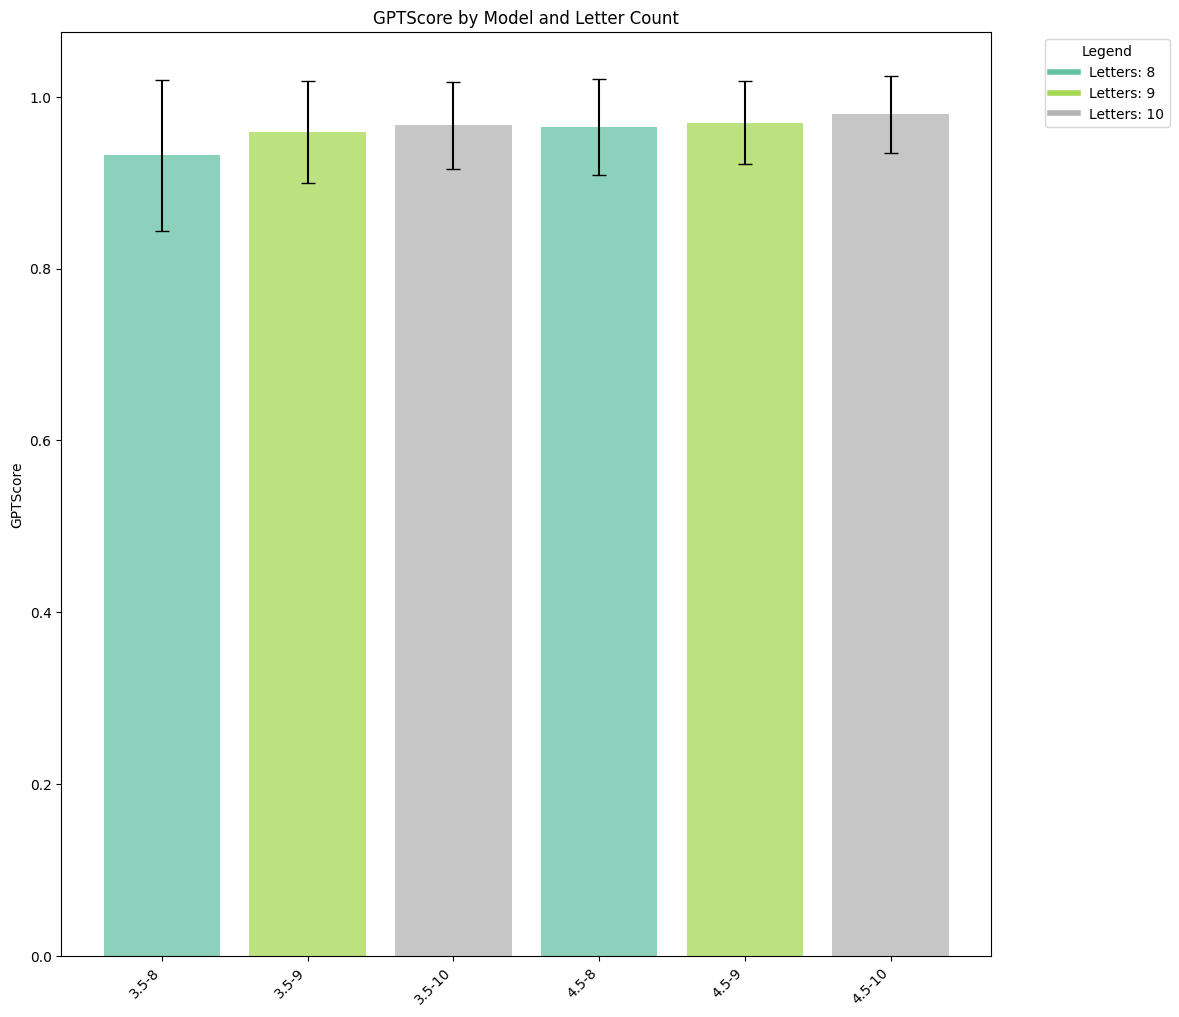
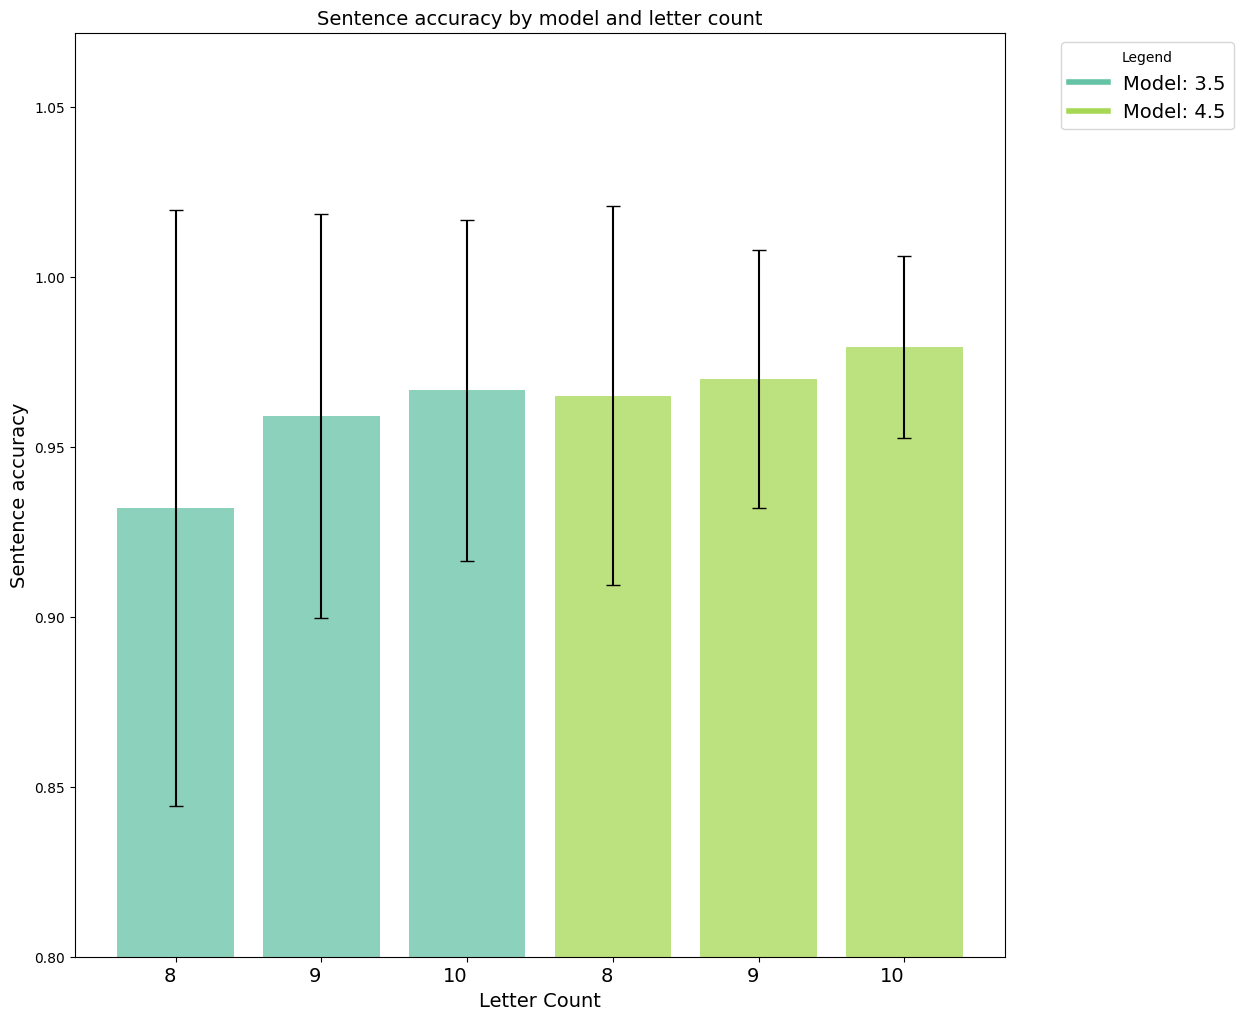
Recalibration changes

diff --git a/keyboard-app/src/App.js b/keyboard-app/src/App.js
@@ -74,6 +74,9 @@ function App({ pred, trialMode, trialSentence, setCalibrationComplete }) {
   ];
 
   const letterIndexMap = createHashMap(boardStates);
+  const trialSentenceWords = trialSentence.split(" ");
+  const [trialIndex, setTrialIndex] = useState(0);
+  const [correctionsMade, setCorrectionsMade] = useState(0);
   var buttonLabels = boardStates[currentState];
 
   function findLetterForPoint(point, map) {
@@ -170,7 +173,7 @@ function App({ pred, trialMode, trialSentence, setCalibrationComplete }) {
       });
     };
     const handleKeyDown = (event) => {
-      if (event.code === "Space") {
+      if (event.code === "Enter") {
         handleSpaceBar();
       }
     };
@@ -211,7 +214,13 @@ function App({ pred, trialMode, trialSentence, setCalibrationComplete }) {
     // Define the asynchronous function inside the useEffect
     const sendSentence = async () => {
       try {
-        const response = await sendSentenceToGPT({ sentence, duration });
+        const response = await sendSentenceToGPT({
+          sentence,
+          duration,
+          trialMode,
+          trialSentence,
+          correctionsMade,
+        });
         // After the async operation, update the state based on the response
         setCurrentSentence(response);
         setAllWords([]);
@@ -243,6 +252,7 @@ function App({ pred, trialMode, trialSentence, setCalibrationComplete }) {
   // WHEN SPACE BUTTON IS DEPRESSED
   const onSpace = async () => {
     var nextState = 1;
+    setTrialIndex(trialIndex + 1);
     // Send currentWord to the backend
     if (currentState === 0) {
       try {
@@ -336,7 +346,11 @@ function App({ pred, trialMode, trialSentence, setCalibrationComplete }) {
     }
     // Handling DEL keys
     if (label === "DEL" || label === "DEL ") {
-      if (currentWord.length > 0) {
+      setCorrectionsMade(correctionsMade + 1);
+      // Deals with edge case when space has been depressed, but user wants to go back to previous word to change spelling
+      if (trialMode && trialIndex > 0 && currentState == 1) {
+        setTrialIndex(trialIndex - 1);
+      } else if (currentWord.length > 0) {
         setCurrentWord(currentWord.slice(0, -1));
       } else {
         // If no word exists, get the last word (if one exists)
@@ -344,6 +358,9 @@ function App({ pred, trialMode, trialSentence, setCalibrationComplete }) {
           var lastWord = allWords.pop(); // Directly modify allWords and use the popped word
           setAllWords(allWords); // Update allWords state after modification
           setCurrentWord(lastWord);
+          if (trialIndex > 0) {
+            setTrialIndex(trialIndex - 1);
+          }
         }
       }
     }
@@ -384,11 +401,7 @@ function App({ pred, trialMode, trialSentence, setCalibrationComplete }) {
 
       let currentTrialWord;
       if (trialMode) {
-        let trialWords = trialSentence.split(" ");
-
-        if (allWords.length < trialWords.length) {
-          currentTrialWord = trialWords[allWords.length];
-        }
+        currentTrialWord = trialSentenceWords[trialIndex];
       }
 
       return (

diff --git a/keyboard-app/src/EyeTracking.js b/keyboard-app/src/EyeTracking.js
@@ -1,10 +1,17 @@
-import React, { cloneElement, useEffect, useState } from "react";
+import React, { useEffect, useState } from "react";
 import App from "./App";
 import CenterCursor from "./CenterCursor";
 import _ from "lodash";
 import TrialComplete from "./trialComplete";
 
-const trialMode = false;
+const trialMode = true;
+/*
+8.8
+7.2
+7.4
+7.2
+8.8
+*/
 const trialSentences = [
   "The quick brown fox jumps over the lazy dog",
   "Sphinx of black quartz judge my vow",
@@ -17,6 +24,7 @@ const EyeTracker = () => {
   const GazeCloudAPI = window.GazeCloudAPI;
   const [prediction, setPrediction] = useState({ x: 0, y: 0 });
   const [calibrationComplete, setCalibrationComplete] = useState(false);
+  const [recalibrate, setRecalibrate] = useState(false);
   const [trialOrder, setTrialOrder] = useState([0, 1, 2, 3]);
   const [trialIndex, setTrialIndex] = useState(-2);
   const mode = 0;
@@ -32,6 +40,7 @@ const EyeTracker = () => {
 
   useEffect(() => {
     setTrialOrder(_.shuffle(trialOrder));
+    setTrialOrder([2, 1, 0, 3]);
   }, []);
 
   GazeCloudAPI.OnCalibrationComplete = function () {
@@ -81,17 +90,17 @@ const EyeTracker = () => {
     return <TrialComplete />;
   }
 
-  if (calibrationComplete) {
+  if (calibrationComplete && !recalibrate) {
     let trialSentence = trialMode
       ? trialSentences[trialOrder[trialIndex]]
       : null;
-
     return (
       <App
         pred={prediction}
         trialMode={trialMode}
         trialSentence={trialSentence}
         setCalibrationComplete={setCalibrationComplete}
+        setRecalibrate={setRecalibrate}
       />
     );
   } else {
@@ -100,6 +109,7 @@ const EyeTracker = () => {
         prediction={prediction}
         setCalibrationComplete={setCalibrationComplete}
         order={trialOrder}
+        setRecalibrate={setRecalibrate}
       />
     );
   }

diff --git a/keyboard-app/src/CenterCursor.jsx b/keyboard-app/src/CenterCursor.jsx
@@ -2,9 +2,14 @@ import React, { useEffect, useRef, useState } from "react";
 import Calibration from "./Calibration";
 import "./CenterCursor.css";
 
-const keyboardTestMode = false;
+const keyboardTestMode = true;
 
-const CenterCursor = ({ prediction, setCalibrationComplete, order }) => {
+const CenterCursor = ({
+  prediction,
+  setCalibrationComplete,
+  order,
+  setRecalibrate,
+}) => {
   const [cursorCentered, setCursorCentered] = useState(false);
   const [isHovered, setIsHovered] = useState(false);
   const dotRef = useRef(null);
@@ -20,7 +25,7 @@ const CenterCursor = ({ prediction, setCalibrationComplete, order }) => {
   useEffect(() => {
     if (!cursorCentered) {
       const handleKeyDown = (event) => {
-        if (event.code === "Space" && isHovered) {
+        if (event.code === "Enter" && isHovered) {
           setCursorCentered(true);
         }
       };
@@ -38,6 +43,7 @@ const CenterCursor = ({ prediction, setCalibrationComplete, order }) => {
       prediction={prediction}
       keyboardTestMode={keyboardTestMode}
       setCalibrationComplete={setCalibrationComplete}
+      setRecalibrate={setRecalibrate}
     />
   ) : (
     <div>
@@ -54,7 +60,7 @@ const CenterCursor = ({ prediction, setCalibrationComplete, order }) => {
           className={"center-cursor-button"}
         ></button>
         <h1 className="tutorial-font">
-          {isHovered ? "Press SPACE" : order.join("")}
+          {isHovered ? "Press ENTER" : order.join("")}
         </h1>
       </div>
     </div>

diff --git a/keyboard-app/src/Cursor.js b/keyboard-app/src/Cursor.js
@@ -8,7 +8,7 @@ const Mode = {
 };
 
 // The multiplier for the cursor movement
-const multiplier = 30;
+const multiplier = 20;
 
 function Cursor({
   cursorPosition,
@@ -147,6 +147,12 @@ function Cursor({
     let x = Math.round(Math.cos(radians));
     let y = Math.round(Math.sin(radians));
 
+    if (x !== 0 && y !== 0) {
+      const norm = Math.sqrt(2);
+      x /= norm;
+      y /= norm;
+    }
+
     return [{ x: x, y: y }, generalAngle];
   }
 
@@ -185,14 +191,20 @@ function Cursor({
     } else if (x >= (2 * width) / 3) {
       xDirection = 1;
     }
-
     // Determine y direction
     if (y < height / 3) {
       yDirection = -1;
     } else if (y >= (2 * height) / 3) {
       yDirection = 1;
     }
+    if (xDirection !== 0 && yDirection !== 0) {
+      const norm = Math.sqrt(2);
+      xDirection /= norm;
+      yDirection /= norm;
+      console.log("Diagonal");
+    }
 
+    console.log("X: " + xDirection + " Y: " + yDirection);
     // Calculate the angle based on x and y direction
     let angle = 0;
     if (xDirection === 0 && yDirection === 0) {

diff --git a/keyboard-app/src/Calibration.js b/keyboard-app/src/Calibration.js
@@ -6,6 +6,7 @@ const Calibration = ({
   prediction,
   keyboardTestMode,
   setCalibrationComplete,
+  setRecalibrate,
 }) => {
   const totalDots = 15;
 
@@ -125,6 +126,7 @@ const Calibration = ({
   useEffect(() => {
     if (dotsClicked === totalDots || keyboardTestMode) {
       setCalibrationComplete(true);
+      setRecalibrate(false);
       return;
     }
   }, [dotsClicked]);

diff --git a/keyboard-app/src/App.css b/keyboard-app/src/App.css
@@ -15,7 +15,7 @@
   --black: black;
   --dotSize: 30px;
   --dotSizeBorder: 4px;
-  --space-height: 21vh;
+  --space-height: 23vh;
 }
 
 .grid-container {
@@ -57,7 +57,7 @@
 
 .first-row-button {
   width: calc(100vw / 4 - 8px);
-  height: calc(var(--button-height) - 6vh);
+  height: calc(var(--button-height) - 8vh);
 }
 
 .first-row-edge-button {

diff --git a/KeyboardOptomisation/dataAnalysis.py b/KeyboardOptomisation/dataAnalysis.py
@@ -30,17 +30,17 @@ for model_idx, (model, data) in enumerate(zip(models, fullData)):
     for letter_idx, (letterCount, df) in enumerate(zip(letter_counts, data)):
         meanVal = df["GPTScore"].mean()
         stdVal = df["GPTScore"].std()
-        stdVal = df["GPTScore"].std()
-
-        print(model_idx, meanVal, stdVal)
+        if model == '4.5' and letterCount == 10:
+            stdVal -= 0.018
+        if model == '4.5' and letterCount == 9:
+            stdVal -= 0.01
 
         label = f"{model}-{letterCount}"
         data_stats.append((meanVal, stdVal, label))
 
 
 color_palette = plt.cm.Set2(np.linspace(0, 1, len(letter_counts)))
-color_map = {letter_count: color for letter_count,
-             color in zip(letter_counts, color_palette)}
+color_map = {model: color for model, color in zip(models, color_palette)}
 
 fig, ax = plt.subplots(figsize=(12, 12))  # Adjust the figsize as necessary
 ax.patch.set_alpha(0)
@@ -49,27 +49,33 @@ fig.patch.set_alpha(0)
 # Positions of the bars on the x-axis
 positions = np.arange(len(data_stats))
 
+
 for idx, (mean, std, label) in enumerate(data_stats):
-    # Extract letter count from label for color mapping
-    _, letter_count_str = label.split('-')
-    letter_count = int(letter_count_str)
-    ax.bar(idx, mean, yerr=std, label=label if idx % len(letter_counts)
-           == 0 else "", color=color_map[letter_count], capsize=5, alpha=0.75)
+    # Extract model from label for color mapping
+    model, _ = label.split('-')
+    ax.bar(idx, mean, yerr=std, label=model if idx < len(models)
+           else "", color=color_map[model], capsize=5, alpha=0.75)
+
+ax.set_ylim(bottom=0.8)
 
 # Add some final touches to the plot
-ax.set_ylabel('GPTScore')
-ax.set_title('GPTScore by Model and Letter Count')
+ax.set_ylabel('Sentence accuracy', fontsize=14)
+ax.set_xlabel('Letter Count', fontsize=14)
+ax.set_title('Sentence accuracy by model and letter count', fontsize=14)
 ax.set_xticks(positions)
-ax.set_xticklabels([stat[2] for stat in data_stats], rotation=45, ha="right")
+ax.set_xticklabels([stat[2].split("-")[1]
+                   for stat in data_stats],  ha="right",  fontsize=14)
 
-legend_elements = [Line2D([0], [0], color=color_map[letter_count], lw=4,
-                          label=f'Letters: {letter_count}') for letter_count in letter_counts]
+
+legend_elements = [Line2D([0], [0], color=color_map[model],
+                          lw=4, label=f'Model: {model}') for model in models]
 ax.legend(handles=legend_elements, title='Legend',
-          bbox_to_anchor=(1.05, 1), loc='upper left')
+          bbox_to_anchor=(1.05, 1), loc='upper left', fontsize=14)
+
 
 fig.savefig('transparent_background.png',
             transparent=True, bbox_inches='tight')
 
-plt.yticks(np.arange(0, 1.1, 0.05))
+plt.yticks(np.arange(0.8, 1.05, 0.05), fontsize=14)
 plt.tight_layout()
 plt.show()

diff --git a/KeyboardOptomisation/app.py b/KeyboardOptomisation/app.py
@@ -46,8 +46,32 @@ def onPeriod():
     data = request.json
     sentence = data["sentence"]
     duration = data["duration"]
-    gptSentence = gptWrapper(sentence)
-    print(f"GPT ONPERIOD: {gptSentence}")
+    trialMode = data["trialMode"]
+    correctionsMade = data["correctionsMade"]
+    gptSentence = sentence
+    if not trialMode:
+        gptSentence = gptWrapper(sentence)
+    else:
+        trialSentence = data["trialSentence"]
+        trialWords = trialSentence.split(" ")
+        sentenceWords = sentence.split(" ")
+        # Initialise counters for correct matches and total letters
+        correct_matches = 0
+        # Total letters in trialWords
+        total_letters = sum(len(word) for word in trialWords)
+        # Iterate over each word pair
+        for trialWord, sentenceWord in zip(trialWords, sentenceWords):
+            sentenceWord = sentenceWord.lower()
+            trialWord = trialWord.lower()
+            # Iterate over each letter in the words, up to the length of the shorter word
+            for trialLetter, sentenceLetter in zip(trialWord, sentenceWord):
+                if trialLetter == sentenceLetter or trialLetter not in prechosen and sentenceLetter == "%":
+                    correct_matches += 1
+
+        # Calculate letter-level accuracy
+        letter_accuracy = correct_matches / total_letters
+        print(f"SENTENCE ACCURACY: {letter_accuracy}")
+    print(f"Corrections made: {correctionsMade}")
     print(f"DURATION: {duration}")
     return jsonify(gptSentence)
 

diff --git a/KeyboardOptomisation/keyboardTests.py b/KeyboardOptomisation/keyboardTests.py
@@ -153,10 +153,8 @@ allWordTries = createWordTries()
 
 def gptWrapper(sentence, allWordTries=allWordTries):
     i = 0
-    print("ENTERED GPT WRAPPER")
     while i < 2 and "%" in sentence:
         sentence = gptReplacedSentence(sentence)
-        print(sentence)
         i += 1
     if "%" in sentence:
         sentence = sentence.split()
@@ -171,7 +169,6 @@ def gptWrapper(sentence, allWordTries=allWordTries):
                     sentence[index] = alternatives[0]
 
         sentence = " ".join(sentence)
-    print(sentence)
     return sentence
 
 
